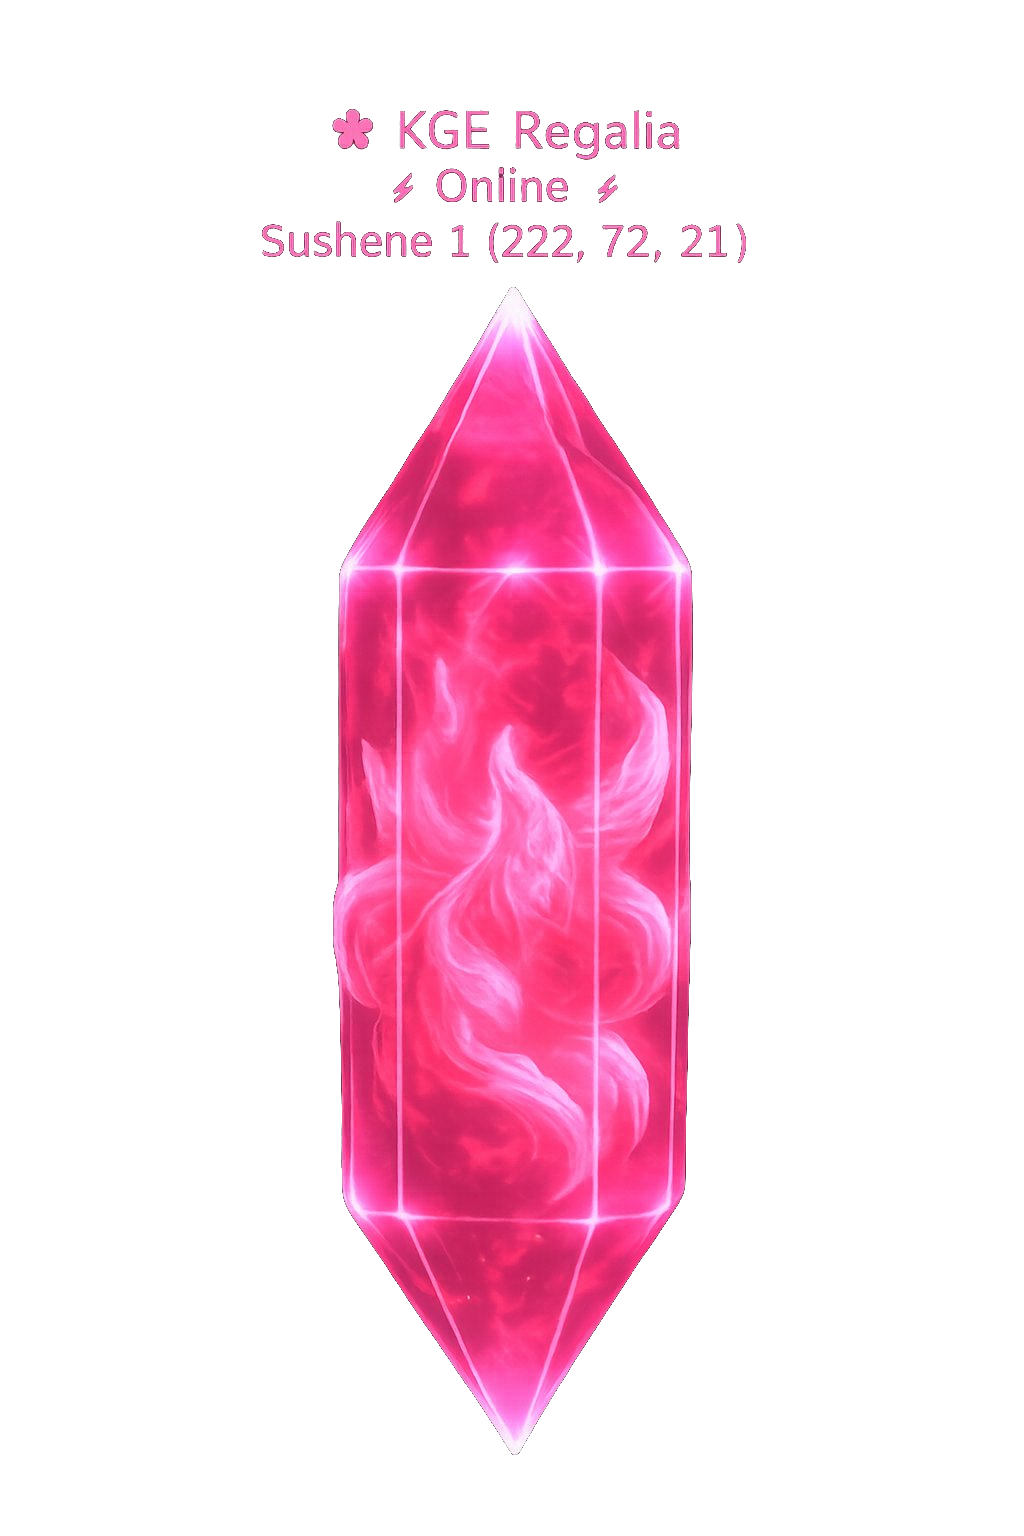
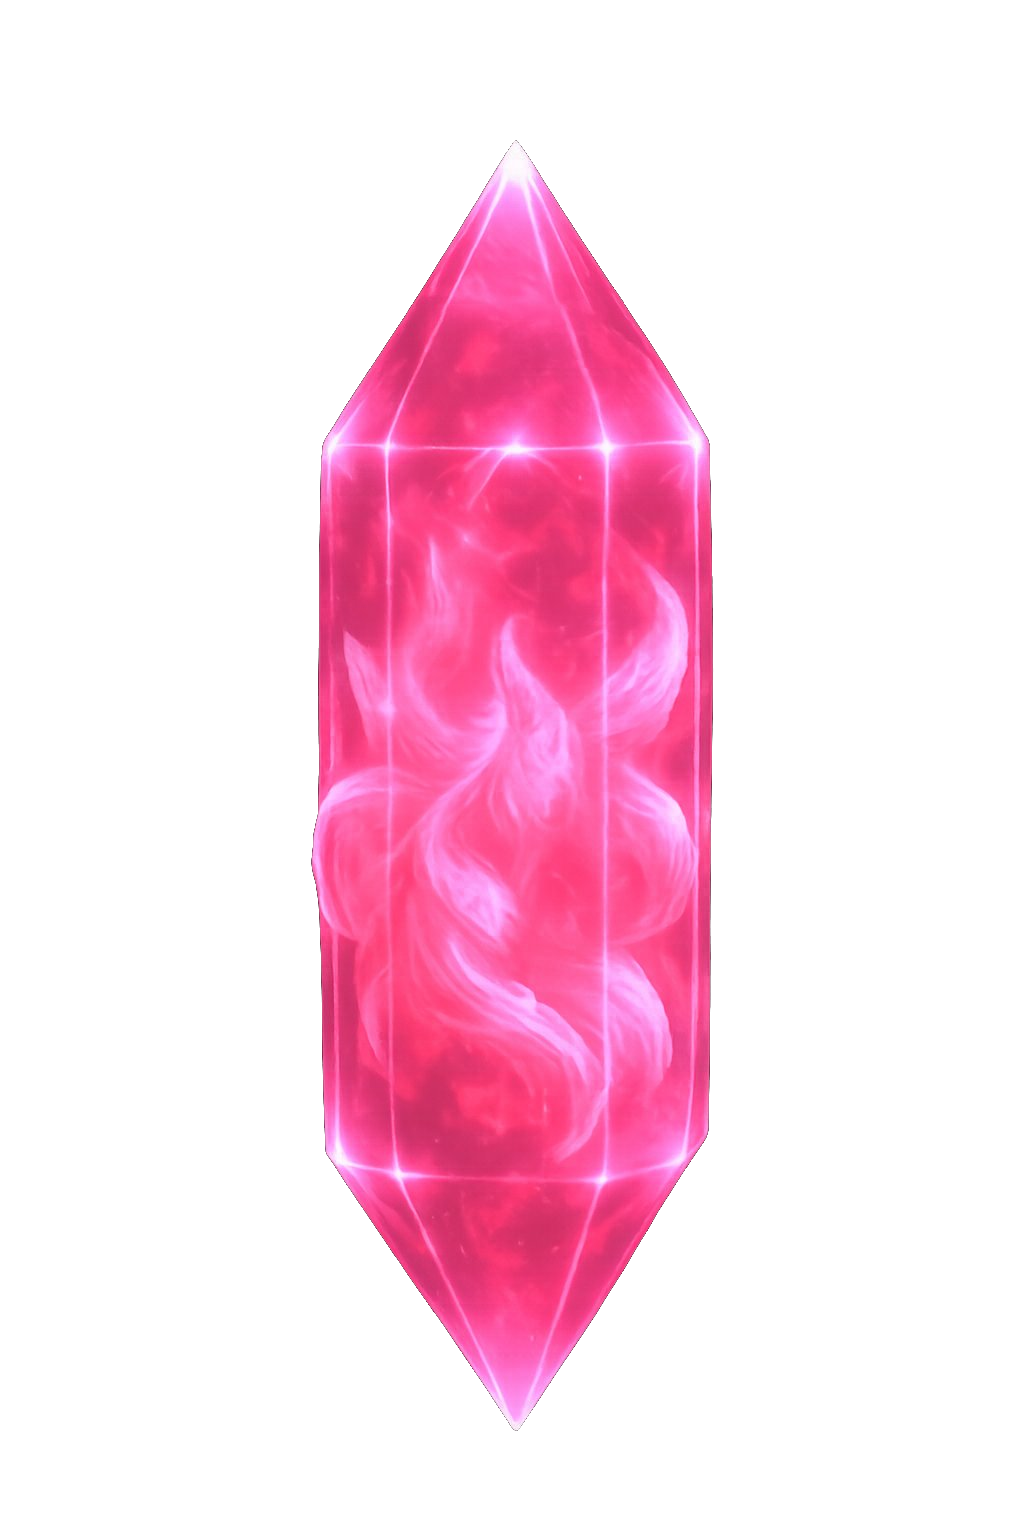
feat(regalia): clean crystal image + live vendor location from DB below crystal

Changed region(s): [[0.25, 0.0625, 0.7188, 0.9375], [0.6562, 0.1562, 0.6875, 0.1875]]

diff --git a/app/portal/DivinecollectionSection.tsx b/app/portal/DivinecollectionSection.tsx
@@ -54,6 +54,15 @@ export default function DivineCollectionSection({ member }: { member: Member }) 
 
   const isFounder = ["Founder","Admin"].includes(member.role);
 
+  const [vendorLoc, setVendorLoc] = useState<{online:boolean; region?:string; parcel?:string; x?:number; y?:number; z?:number} | null>(null);
+
+  useEffect(() => {
+    fetch("/api/collection/vendor-location")
+      .then(r => r.json())
+      .then(setVendorLoc)
+      .catch(() => setVendorLoc({ online: false }));
+  }, []);
+
   const load = useCallback(async () => {
     setLoading(true);
     const r = await fetch("/api/collection");
@@ -129,7 +138,7 @@ export default function DivineCollectionSection({ member }: { member: Member }) 
           src="/regalia-crystal.png"
           alt="KGE Regalia Crystal"
           style={{
-            width:"clamp(220px,30vw,360px)",
+            width:"clamp(180px,22vw,300px)",
             display:"block",
             margin:"0 auto",
             animation:"crystalFloat 3.5s ease-in-out infinite",
@@ -137,6 +146,23 @@ export default function DivineCollectionSection({ member }: { member: Member }) 
             mixBlendMode:"screen",
           }}
         />
+        {/* Live vendor location */}
+        <div style={{ marginTop:"0.8rem" }}>
+          {vendorLoc?.online && vendorLoc.region ? (
+            <div style={{ display:"inline-flex", alignItems:"center", gap:"0.5rem", background:"rgba(123,3,35,0.2)", border:"1px solid rgba(212,175,55,0.18)", padding:"0.4rem 1rem" }}>
+              <span style={{ width:7, height:7, borderRadius:"50%", background:"#35df24", display:"inline-block", flexShrink:0, boxShadow:"0 0 6px #35df24" }} />
+              <span style={{ fontFamily:"'Cinzel',serif", fontSize:"0.48rem", letterSpacing:"0.15em", textTransform:"uppercase", color:"rgba(212,175,55,0.7)" }}>
+                {vendorLoc.region}
+                {vendorLoc.x != null ? ` (${vendorLoc.x}, ${vendorLoc.y}, ${vendorLoc.z})` : ""}
+              </span>
+            </div>
+          ) : (
+            <div style={{ display:"inline-flex", alignItems:"center", gap:"0.5rem", background:"rgba(123,3,35,0.15)", border:"1px solid rgba(212,175,55,0.1)", padding:"0.4rem 1rem" }}>
+              <span style={{ width:7, height:7, borderRadius:"50%", background:"rgba(245,237,216,0.2)", display:"inline-block", flexShrink:0 }} />
+              <span style={{ fontFamily:"'Cinzel',serif", fontSize:"0.48rem", letterSpacing:"0.15em", textTransform:"uppercase", color:"rgba(245,237,216,0.3)" }}>Location syncing…</span>
+            </div>
+          )}
+        </div>
       </div>
 
       {/* Header */}

diff --git a/app/api/collection/vendor-location/route.ts b/app/api/collection/vendor-location/route.ts
@@ -1,0 +1,22 @@
+import { NextResponse } from "next/server";
+import { createClient } from "@supabase/supabase-js";
+const sb = createClient(process.env.NEXT_PUBLIC_SUPABASE_URL!, process.env.NEXT_PUBLIC_SUPABASE_ANON_KEY!);
+
+export async function GET() {
+  const { data } = await sb
+    .schema("members")
+    .from("vendor_registry")
+    .select("region_name, parcel_name, pos_x, pos_y, pos_z, last_location_sync")
+    .eq("vendor_secret", "KGE-VENDOR-2026")
+    .single();
+  if (!data) return NextResponse.json({ online: false });
+  return NextResponse.json({
+    online: true,
+    region: data.region_name || null,
+    parcel: data.parcel_name || null,
+    x: data.pos_x ? Math.round(data.pos_x) : null,
+    y: data.pos_y ? Math.round(data.pos_y) : null,
+    z: data.pos_z ? Math.round(data.pos_z) : null,
+    last_sync: data.last_location_sync,
+  });
+}